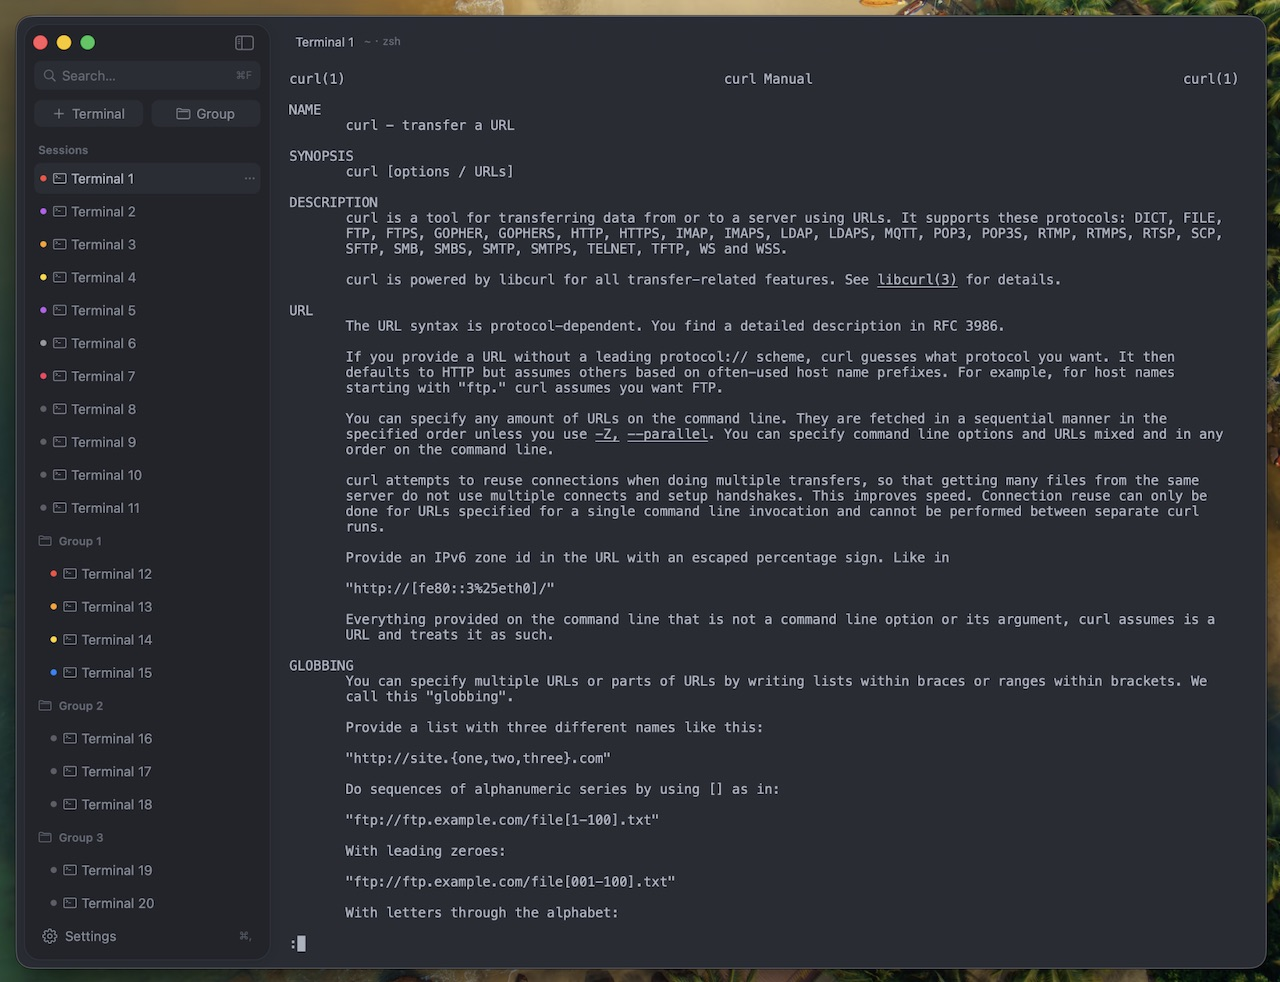
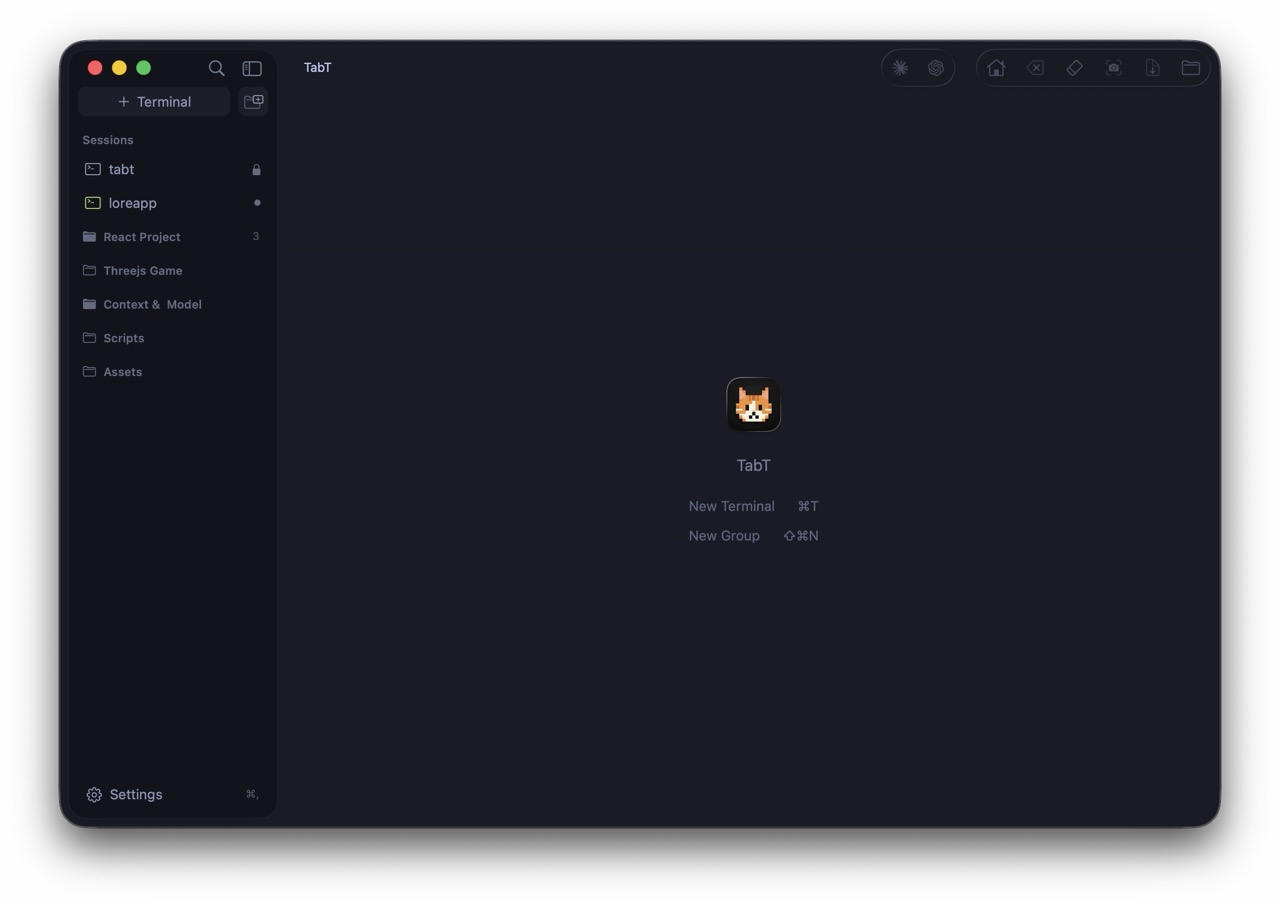
Show all four screenshots together, and describe them again
screenshot4 was never referenced, and the alt text had drifted from the
images: line 8 described a light theme and a curl man page for what is
now the dark-teal empty state, and the Settings shot named Catppuccin
Mocha as selected when the focus ring is on Dracula.

The Settings shot moves up out of the middle of the feature list, so the
four run consecutively under the intro, one per row.

Claude-Session: https://claude.ai/code/session_01AgsVvUZGSe6EngNV8QX9Pg

diff --git a/README.md b/README.md
@@ -5,9 +5,13 @@
 A small, fast native terminal emulator for macOS, written in Rust on top of AppKit. Multi-tab
 sessions with a self-drawn sidebar for tabs and groups, and a dependency-free VT/ANSI core.
 
-![TabT on a light theme: a floating sidebar of grouped sessions beside a terminal showing the curl man page](screenshot1.jpeg)
+![TabT with no session open: a floating sidebar card listing two sessions and five collapsed groups, the toolbar's two button capsules in the title bar, and the app's placeholder — the TabT cat, New Terminal ⌘T, New Group ⇧⌘N — centered in the terminal pane](screenshot1.jpeg)
 
-![The same window on a dark theme](screenshot2.jpeg)
+![The same window on a darker theme, the whole UI — card, sidebar, title bar and terminal — following it](screenshot2.jpeg)
+
+![A session in front: the header's meta line reads tabt · ~/Code/tabt · zsh, the sidebar row for it is selected and its icon green while the job runs, and Claude Code's banner fills the terminal](screenshot3.jpeg)
+
+![The Settings dialog open on its Theme pane: a scrolling grid of preview cards — Ayu Light, Catppuccin Latte, Catppuccin Mocha, Dracula, GitHub Light, Gruvbox Dark, Gruvbox Light, Nord — each a miniature of the app in that theme with its own ANSI swatches, Dracula selected](screenshot4.jpeg)
 
 ## Features
 
@@ -42,8 +46,6 @@ sessions with a self-drawn sidebar for tabs and groups, and a dependency-free VT
 11. **VT/ANSI core** — SGR colors and text attributes, cursor/scroll/erase operations, alternate
     screen buffer, DEC private modes and IRM, tab stops, the DEC line-drawing charset, DSR/DA,
     OSC title and cwd reporting, UTF-8.
-
-![The Settings dialog open on its Theme pane: a scrolling grid of preview cards — Ayu Light, Catppuccin Latte, Catppuccin Mocha, Dracula, GitHub Light, Gruvbox Dark — each a miniature of the app in that theme with its own ANSI swatches, Catppuccin Mocha selected](screenshot3.jpeg)
 
 ## Install
 
